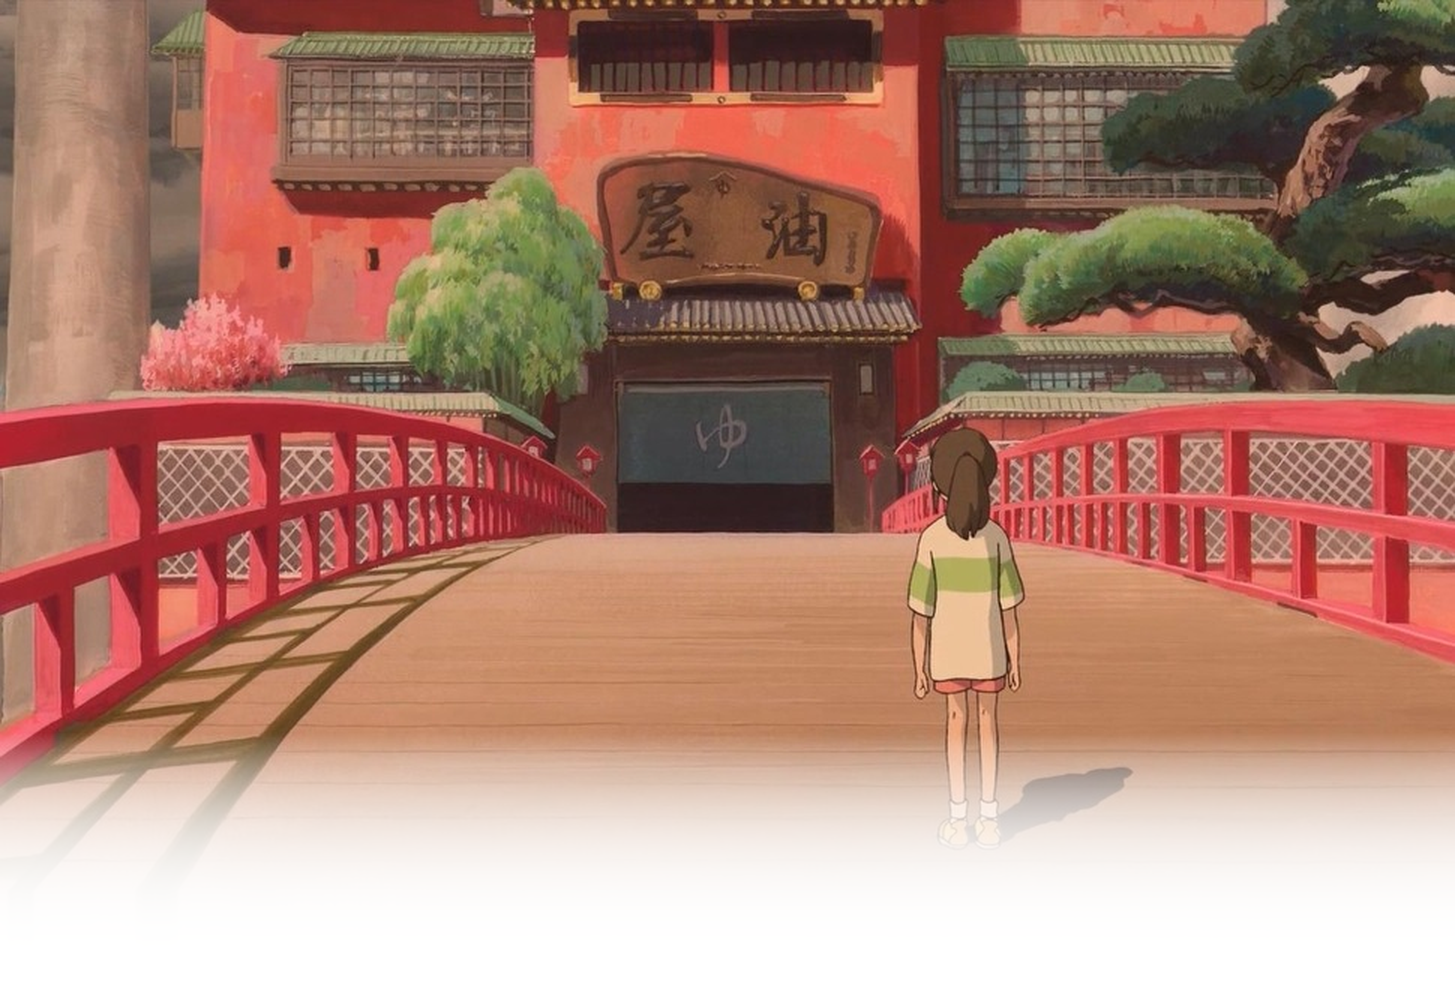
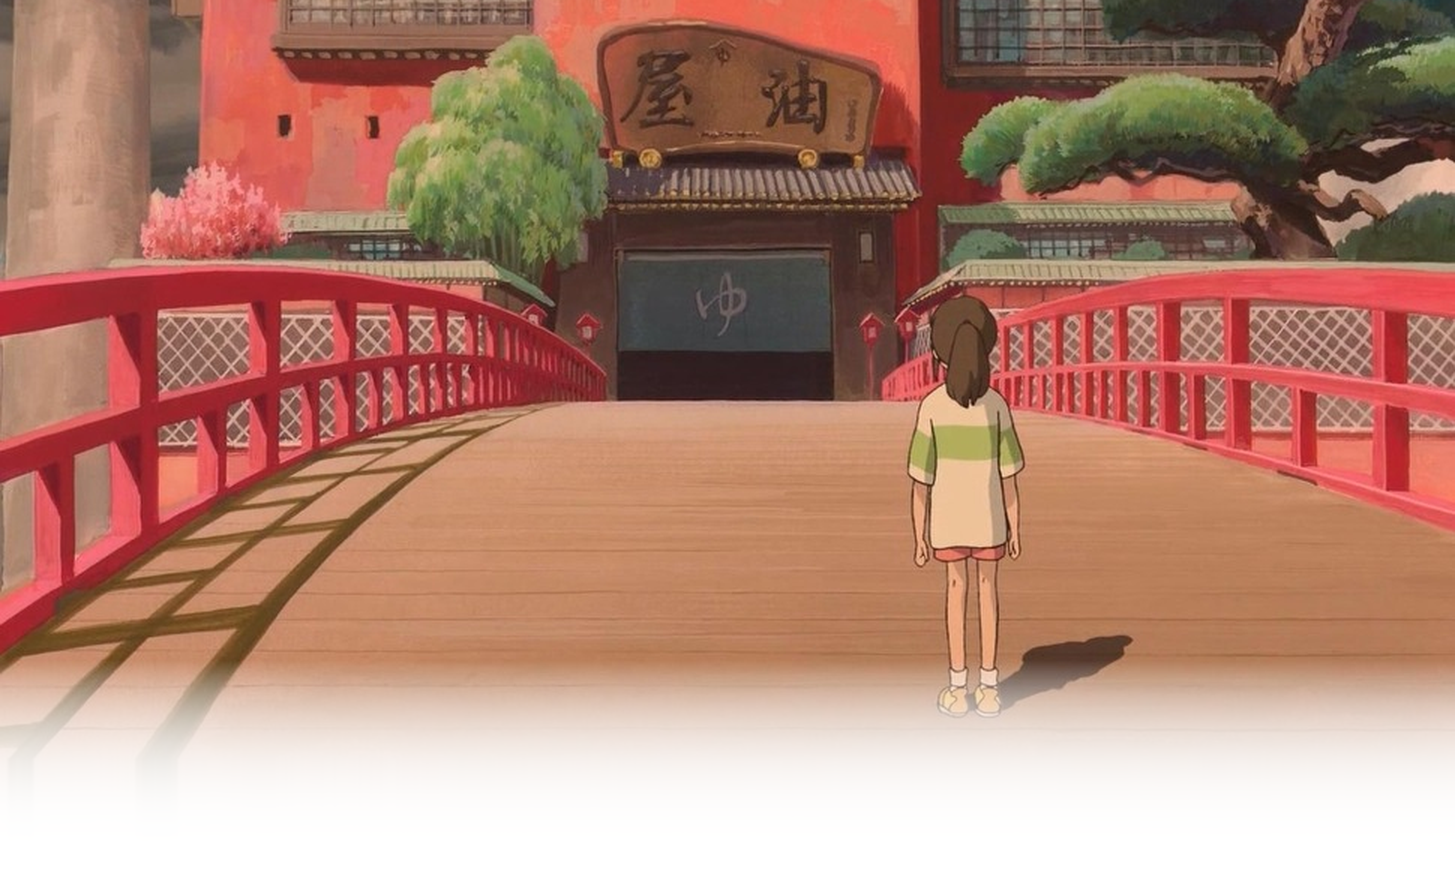
feat: apply user top framing with high-end vertical expansion and 220px fade

diff --git a/README.md b/README.md
@@ -1,8 +1,8 @@
 <div align="center">
   <picture>
-    <source media="(prefers-color-scheme: dark)" srcset="https://raw.githubusercontent.com/a-kio/a-kio/main/assets/header-dark.png?v=6">
-    <source media="(prefers-color-scheme: light)" srcset="https://raw.githubusercontent.com/a-kio/a-kio/main/assets/header-light.png?v=6">
-    <img src="https://raw.githubusercontent.com/a-kio/a-kio/main/assets/header-dark.png?v=6" width="100%" alt="A-kio Header Banner" />
+    <source media="(prefers-color-scheme: dark)" srcset="https://raw.githubusercontent.com/a-kio/a-kio/main/assets/header-dark.png?v=7">
+    <source media="(prefers-color-scheme: light)" srcset="https://raw.githubusercontent.com/a-kio/a-kio/main/assets/header-light.png?v=7">
+    <img src="https://raw.githubusercontent.com/a-kio/a-kio/main/assets/header-dark.png?v=7" width="100%" alt="A-kio Header Banner" />
   </picture>
 
   <p>
